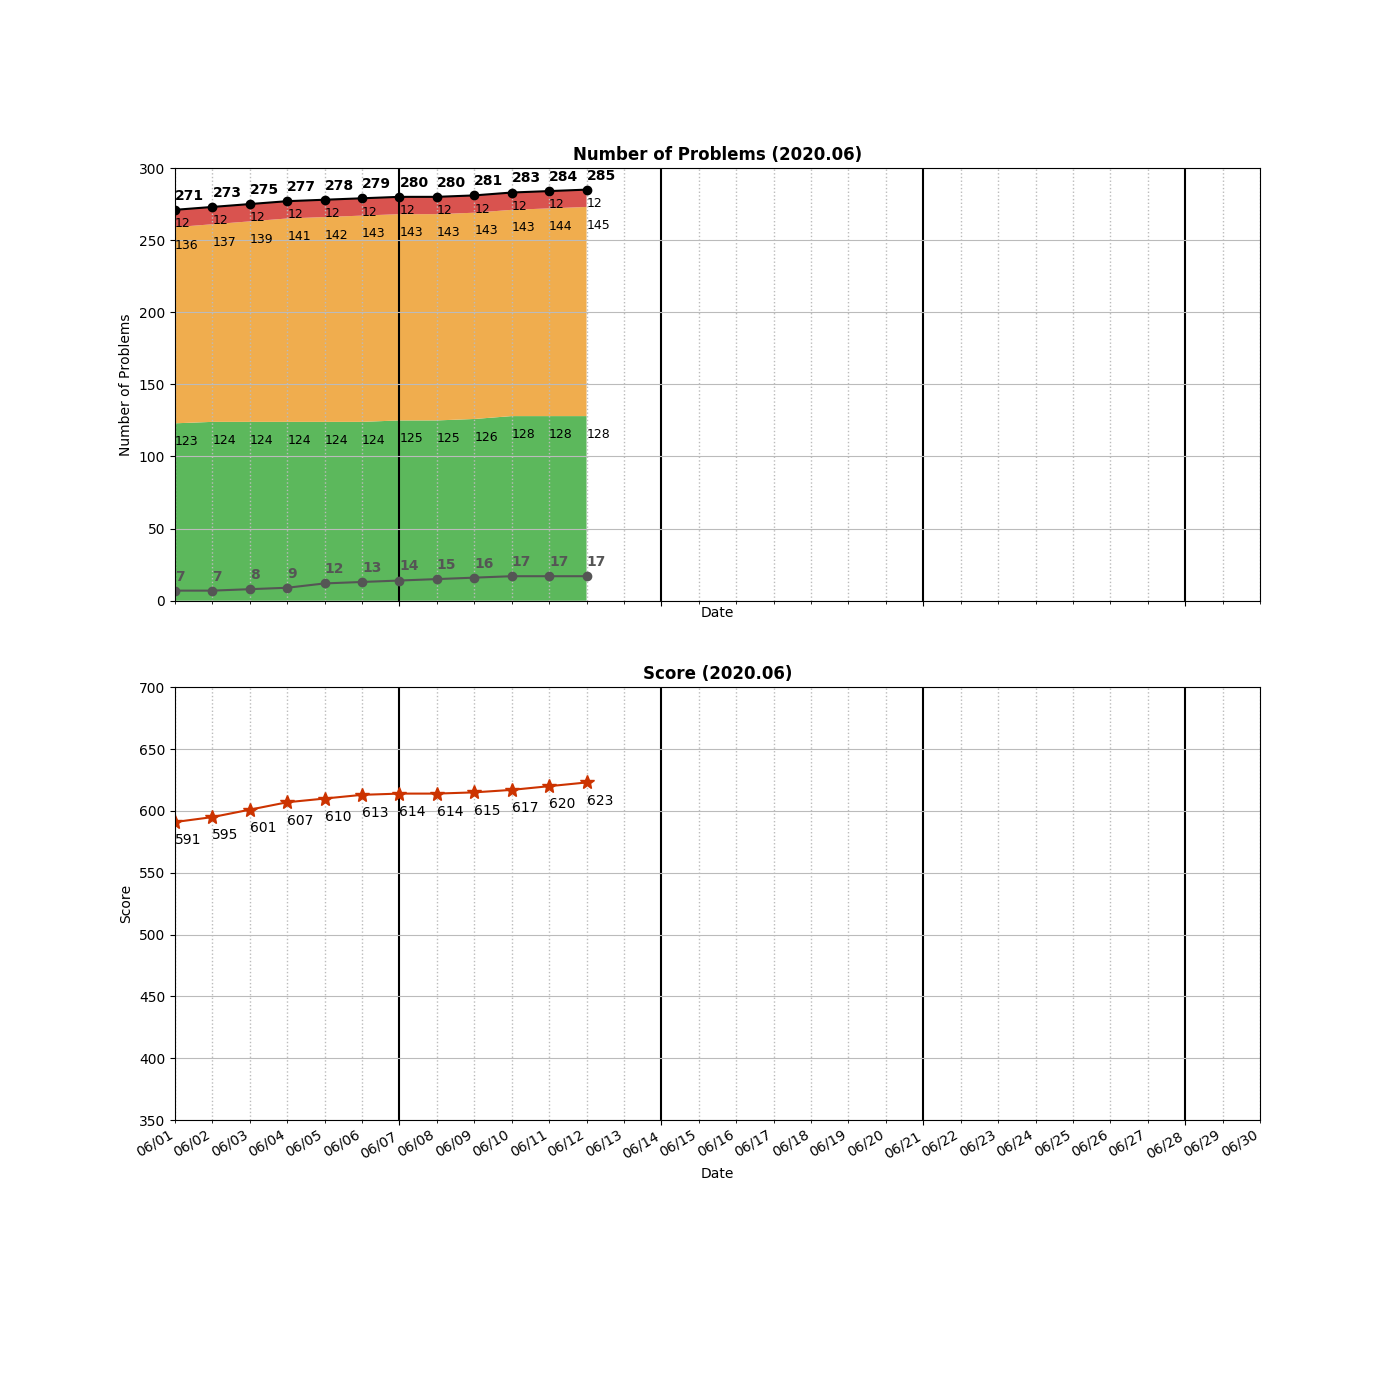
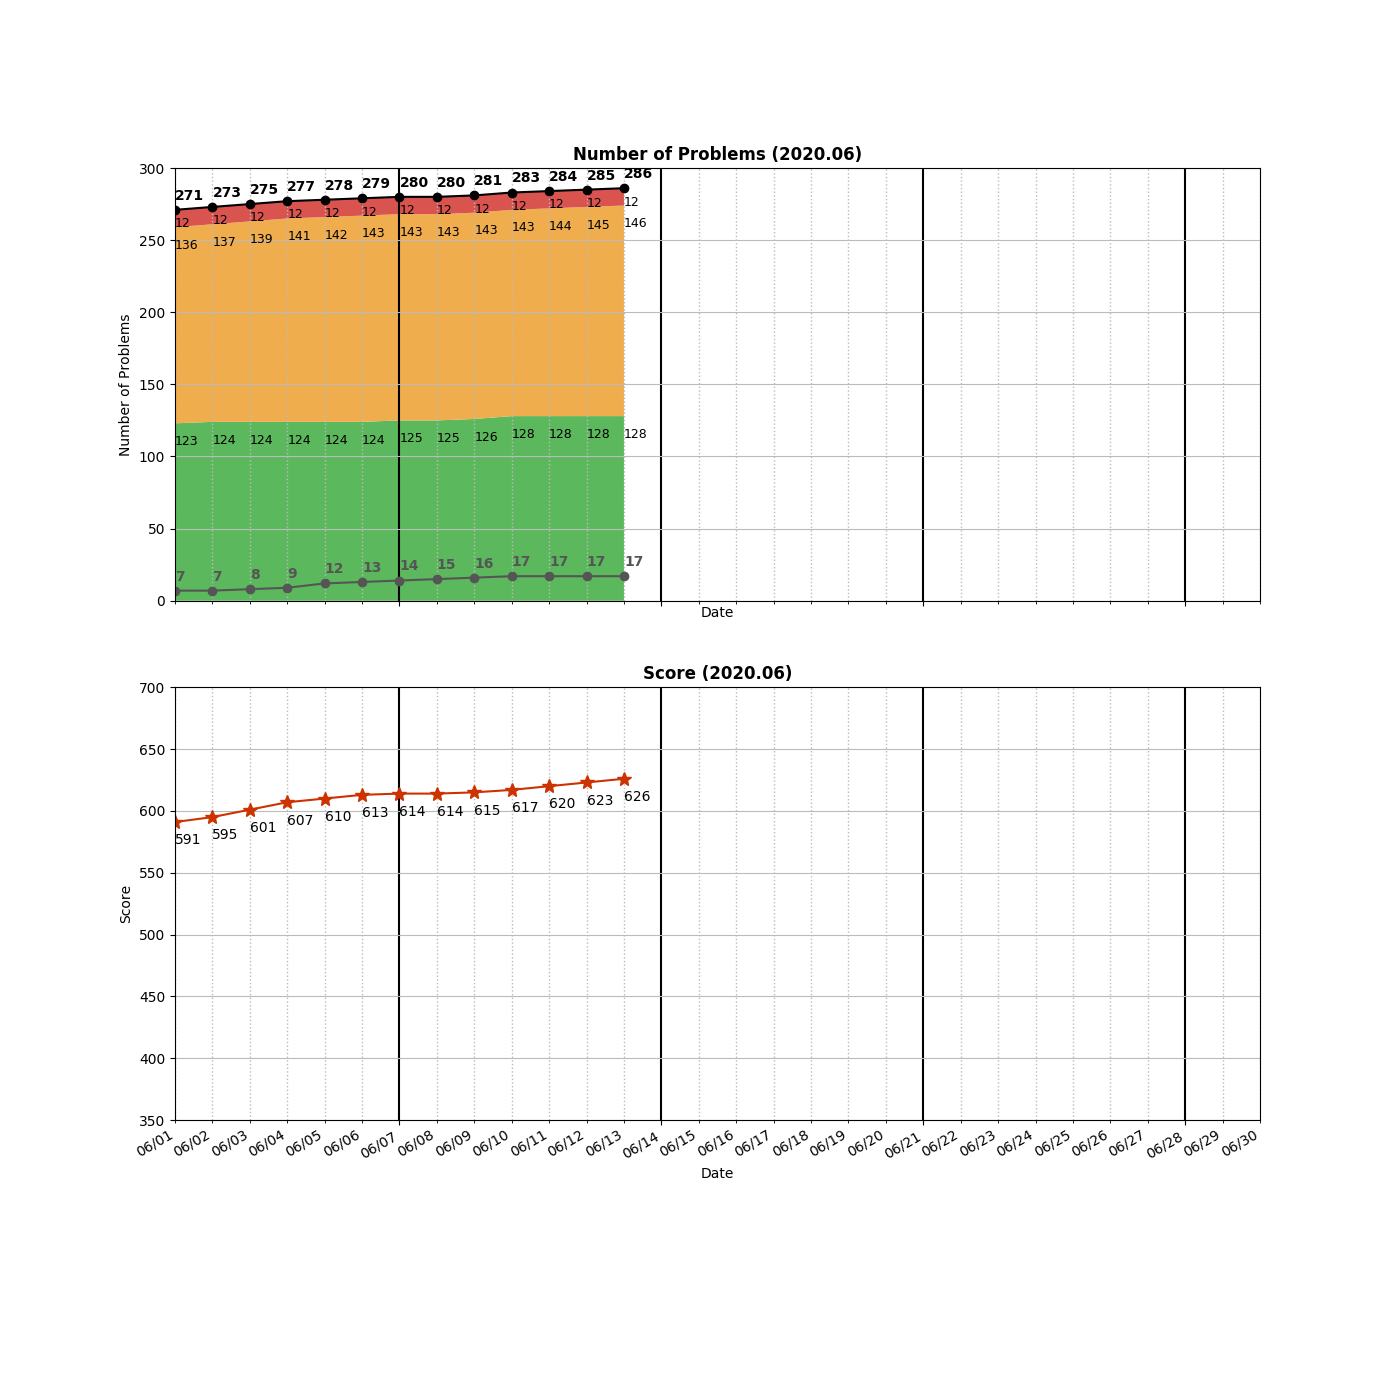
Added _0298_BinaryTreeLongestConsecutiveSequence.py

Changed region(s): [[0.3993, 0.1229, 0.4607, 0.43], [0.43, 0.5529, 0.4607, 0.5836]]

diff --git a/algo/tree/_0298_BinaryTreeLongestConsecutiveSequence.py b/algo/tree/_0298_BinaryTreeLongestConsecutiveSequence.py
@@ -1,0 +1,41 @@
+# Definition for a binary tree node.
+# class TreeNode:
+#     def __init__(self, x):
+#         self.val = x
+#         self.left = None
+#         self.right = None
+
+class Solution:
+    
+    # Recursive (preorder traverse) [Space: O(n) for recursive stack, Time: O(n), 19%]
+    def longestConsecutive(self, root: TreeNode) -> int:
+        if not root:
+            return 0
+        ans = [1, 1]  #max, cur 
+        self.helper(root, ans)
+        return ans[0]
+        
+    def helper(self, node, ans):
+        if not node:
+            return 
+        
+        curConsecutive = ans[1]
+        
+        if node.left:
+            if node.val - node.left.val == -1:
+                ans[1] += 1
+                ans[0] = max(ans[0], ans[1])
+            else:
+                ans[1] = 1 
+            self.helper(node.left, ans)
+        
+        ans[1] = curConsecutive
+        
+        if node.right:
+            if node.val - node.right.val == -1:
+                ans[1] += 1
+                ans[0] = max(ans[0], ans[1])
+            else:
+                ans[1] = 1 
+            self.helper(node.right, ans)
+        return 

diff --git a/README.md b/README.md
@@ -270,6 +270,7 @@ algo
 │   ├── _0257_BinaryTreePaths.py
 │   ├── _0270_ClosestBinarySearchTreeValue.py
 │   ├── _0297_SerializeAndDeserializeBinaryTree.py
+│   ├── _0298_BinaryTreeLongestConsecutiveSequence.py
 │   ├── _0429_N-aryTreeLevelOrderTraversal.py
 │   ├── _0501_FindModeInBinarySearchTree.py
 │   ├── _0530_MinimumAbsoluteDifferenceInBST.py
@@ -308,7 +309,7 @@ algo
     ├── _0127_WordLadder_TLE.py
     └── _0127_WordLadder_wrong.py
 
-24 directories, 283 files
+24 directories, 284 files
 
 =====================================
 ============= Local Repo ============
@@ -469,6 +470,7 @@ _0283_MoveZeroes.py
 _0290_WordPattern.py
 _0291_WordPattern2.py
 _0297_SerializeAndDeserializeBinaryTree.py
+_0298_BinaryTreeLongestConsecutiveSequence.py
 _0299_BullsAndCows.py
 _0300_LongestIncreasingSubsequence.py
 _0305_NumberOfIslands2.py
@@ -596,7 +598,7 @@ _1358_NumberOfSubstringsContainingAllThreeCharacters.py
 _1391_CheckIfThereIsAValidPathInAGrid.py
 _1427_PerformStringShifts.py
 =====================================
-Num of Python Practice:  282
+Num of Python Practice:  283
 
 
 =====================================
@@ -757,6 +759,7 @@ Num of Python Practice:  282
  0290 Word Pattern
  0291 Word Pattern II
  0297 Serialize and Deserialize Binary Tree
+ 0298 Binary Tree Longest Consecutive Sequence
  0299 Bulls and Cows
  0300 Longest Increasing Subsequence
  0305 Number of Islands II
@@ -889,10 +892,10 @@ Num of Python Practice:  282
  1427 Perform String Shifts
 =====================================
 Solved / Total (Easy)  :  128 /  413
-Solved / Total (Medium):  145 /  753
+Solved / Total (Medium):  146 /  753
 Solved / Total (Hard)  :   12 /  308
-Solved / Total (All)   :  285 / 1474
-Total Score            :  623
+Solved / Total (All)   :  286 / 1474
+Total Score            :  626
 =====================================
 
 ```
